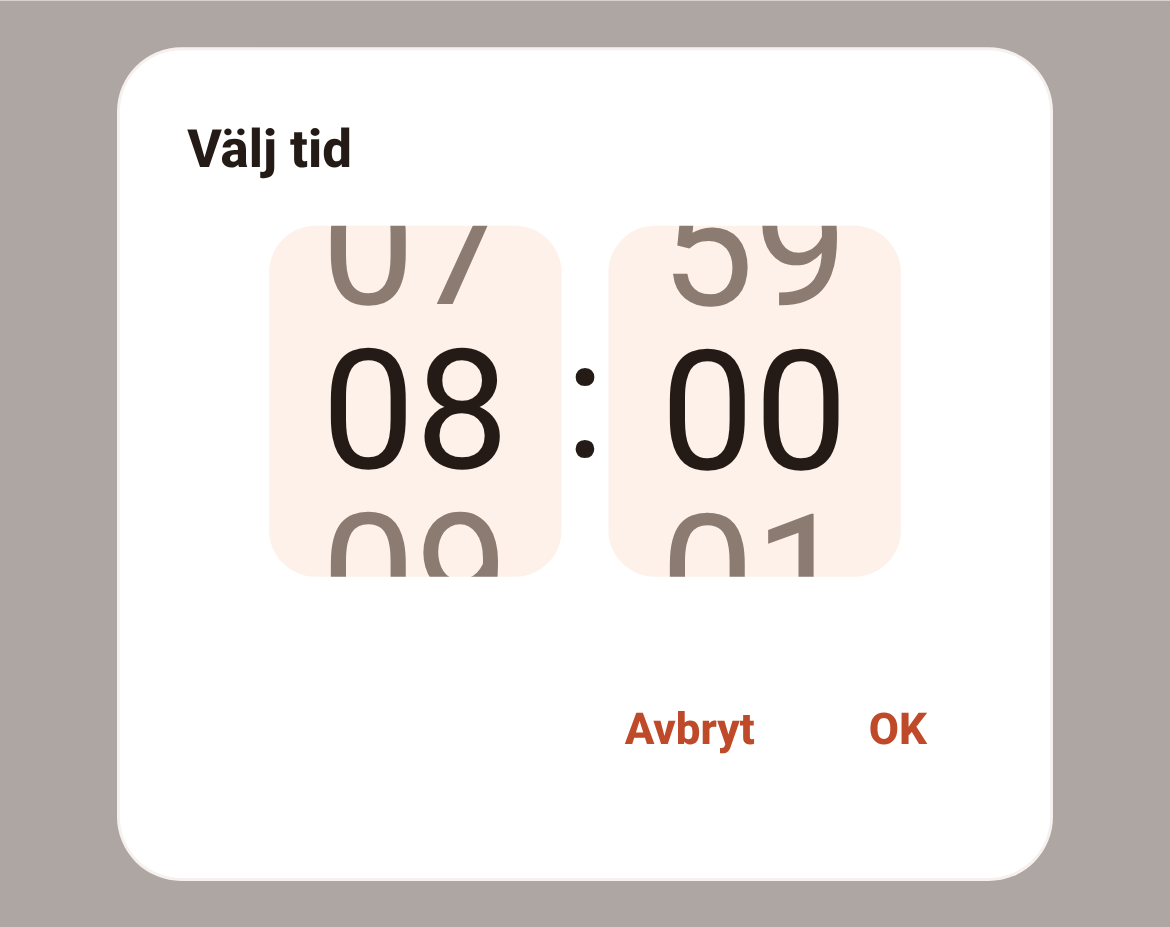
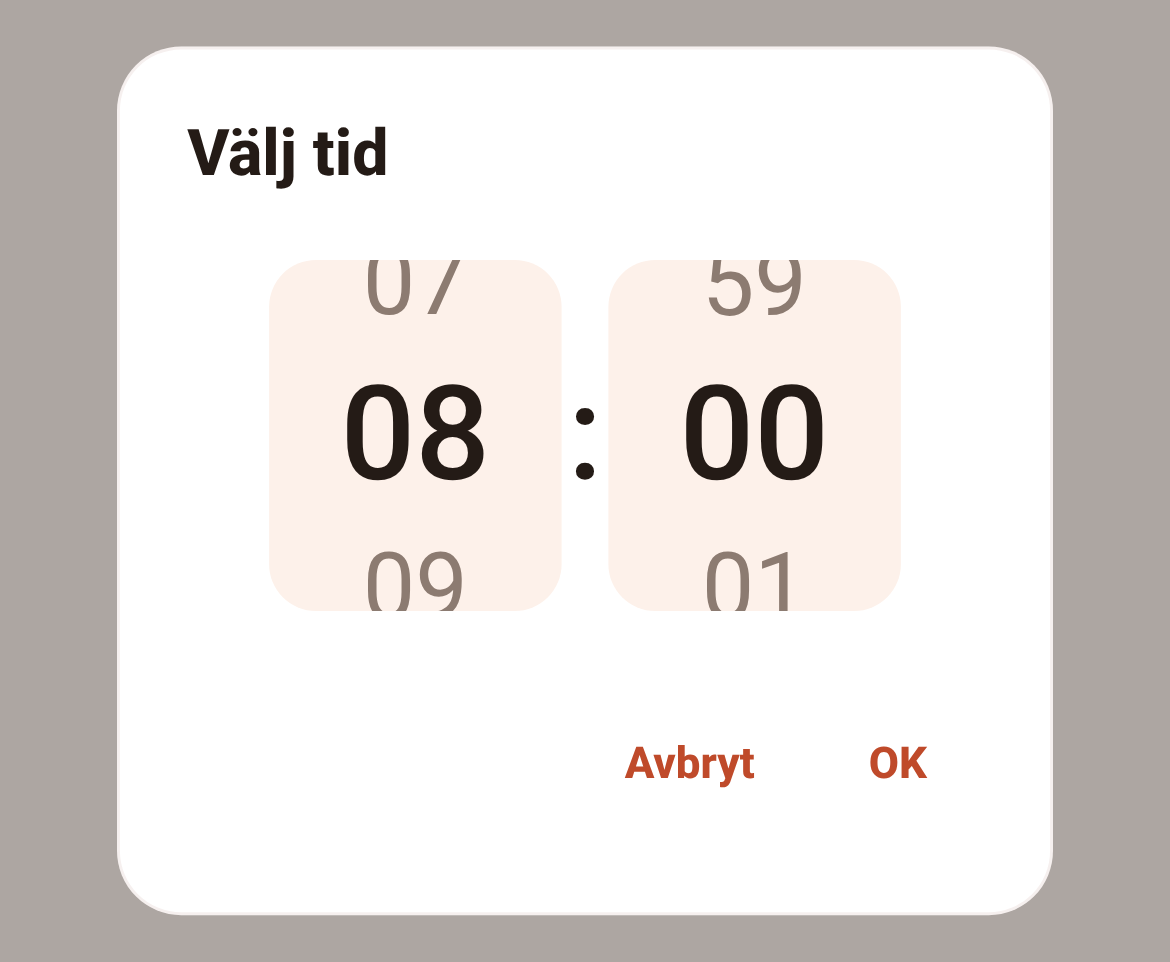
Tidsväljaren som android-ui 3.12.0: appens typsnitt i plats, rubriken som dialogerna (1.13.1)
Claude-Session: https://claude.ai/code/session_01KhEpwhrx6yxPvrpFXP2GCC

diff --git a/src/kh.css b/src/kh.css
@@ -26,7 +26,7 @@
   --kh-type-pill: 500 12px/16px var(--kh-font-body);
   --kh-type-caption: 500 11px/16px var(--kh-font-body);
   --kh-type-button: 500 14px/20px var(--kh-font-heading);
-  --kh-type-time-wheel: 400 57px/64px var(--kh-font-body); /* Material 3:s displayLarge: tidsväljarens tal */
+  --kh-type-time-wheel: 500 45px/52px var(--kh-font-body); /* AppTypography.timeWheelSelected: tidsväljarens tal i mitten och kolonet */
   --kh-tracking-screen-title: 0;
   --kh-tracking-caption: 0.045em;
 
@@ -837,8 +837,10 @@ textarea.kh-field__input { resize: none; min-block-size: 56px; field-sizing: con
 
 /*
  * <kh-time-picker> i en kh-dialog: två hjul (timme och minut, 24 timmar) i segmentvalets nedsänkta spår,
- * som Material 3:s TimeScroll. kh.js bygger hjulen; varje tal är 56 högt och hjulet visar 120, så att
- * grannarna syns avskurna. Talet i mitten står i on-surface, grannarna i outline (en rullningsdriven animering).
+ * som Material 3:s TimeScroll. kh.js bygger hjulen; varje tal är 52 högt och hjulet visar 120, så att
+ * grannarna syns avskurna. Talet i mitten står i on-surface, grannarna i outline och mindre (en rullningsdriven
+ * animering): 32/45 av talet och vikt 400 som AppTypography.timeWheel i android-ui 3.12.0. Skalan i stället för
+ * font-size, så att animeringen inte nollställer de tabulära siffrorna.
  */
 .kh-time-picker {
   display: grid;
@@ -853,7 +855,7 @@ textarea.kh-field__input { resize: none; min-block-size: 56px; field-sizing: con
 .kh-time-picker__wheel {
   box-sizing: border-box;
   block-size: 120px;
-  padding-block: 32px; /* (120 − 56) / 2: ett tal kan stå i mitten */
+  padding-block: 34px; /* (120 − 52) / 2: ett tal kan stå i mitten */
   overflow-y: auto;
   overscroll-behavior: contain;
   scroll-snap-type: y mandatory;
@@ -866,7 +868,7 @@ textarea.kh-field__input { resize: none; min-block-size: 56px; field-sizing: con
 .kh-time-picker__item {
   display: grid;
   place-items: center;
-  block-size: 56px;
+  block-size: 52px;
   scroll-snap-align: center;
   color: var(--kh-outline);
   cursor: pointer;
@@ -875,11 +877,11 @@ textarea.kh-field__input { resize: none; min-block-size: 56px; field-sizing: con
   animation-timeline: view();
 }
 @keyframes kh-time-wheel {
-  0%, 30%, 70%, 100% { color: var(--kh-outline); }
-  50% { color: var(--kh-on-surface); }
+  0%, 30%, 70%, 100% { color: var(--kh-outline); scale: calc(32 / 45); font-weight: 400; }
+  50% { color: var(--kh-on-surface); scale: 1; font-weight: 500; }
 }
-/* Dialogen med tidsväljaren har TimePickerPopups mindre rubrik. */
-.kh-dialog:has(> .kh-time-picker) .kh-dialog__title { font: var(--kh-type-section-title); }
+/* Rubriken som i övriga dialoger, med luft ner till hjulen (TimePickerPopup, android-ui 3.12.0). */
+.kh-dialog:has(> .kh-time-picker) .kh-dialog__title { margin-block-end: var(--kh-space-s); }
 
 /* ---------- Ark (AppBottomSheet) ---------- */
 

diff --git a/README.md b/README.md
@@ -61,7 +61,7 @@ standardvärden – en app som saknar en färg ser det direkt. Galleriets testte
 | `--kh-toolbar`, `--kh-on-toolbar` | `ExtendedColors.toolbar`, `.onToolbar` (flikraden) |
 | `--kh-surface-container-high` (valfri, standard `--kh-card`) | dra-ned-prickarnas behållare |
 | `--kh-font-body`, `--kh-font-heading` | appens typsnitt |
-| `--kh-type-screen-title`, `-big-number`, `-headline`, `-section-title`, `-quantity`, `-item-title`, `-item-subtitle`, `-body`, `-body-medium`, `-pill`, `-caption`, `-button`, `-time-wheel` | `AppTypography` (`-time-wheel`: tidsväljarens tal, Material 3:s displayLarge) (som `font`-förkortning; standard Material 3:s typskala) |
+| `--kh-type-screen-title`, `-big-number`, `-headline`, `-section-title`, `-quantity`, `-item-title`, `-item-subtitle`, `-body`, `-body-medium`, `-pill`, `-caption`, `-button`, `-time-wheel` | `AppTypography` (`-time-wheel`: tidsväljarens tal i mitten, `AppTypography.timeWheelSelected`; grannarna 32/45 av det) (som `font`-förkortning; standard Material 3:s typskala) |
 | `--kh-tracking-screen-title`, `--kh-tracking-caption` | stilarnas teckenavstånd |
 | `--kh-depth-highlight`, `-sheen`, `-shadow`, `-card-edge`, `-card-shadow`, `-card-sheen` (valfri), `-header-shadow` (valfri, standard `-card-shadow`) | `AppDepth` – gäller inom klassen `kh-depth` |
 | `--kh-card-padding`, `--kh-card-gap`, `--kh-card-border` | `AppCardStyle` (standard ReseApoteket och Dagboken) |
@@ -123,7 +123,7 @@ Med `kh.js` (egna element, inga shadow DOM):
 | `<kh-swipe label="Radera">` runt en rad (`tone="hide"` för dölj/arkivera) | `SwipeToDelete`, `SwipeToHide` | Svep åt vänster med finger eller penna (inte mus, inte från kantzonen 24 px): raden följer fingret med `label` på felfärgen (`tone="hide"`: primärtonen) bakom; efter en tredjedel av bredden eller ett snabbt drag meddelas `kh-swipe` och raden glider tillbaka. Svep åt höger går till sidan; elementet har `data-own-swipe="left"` för sidans eget sidledssvep. Raden ska också ha Radera synligt. |
 | `<kh-segmented>` | `AppSegmentedChoice` | Ett val i taget i barnens `aria-checked` (eller `aria-pressed`/`aria-selected`), med tryck och pilar; meddelar `kh-select` (`detail: { index, value }`). |
 | `<kh-stepper value="2" min="0" max="999" step="1" label="doser per dag">` | `QuantityStepper` | − och + i radtonens spår; knappen vid gränsen stängs av, `disabled` stänger båda. Knapparnas namn ur `label` ("Minska doser per dag"). Meddelar `change`; `value` läses och sätts som tal, egenskapen `format` (`(v) => text`) visar värdet med enhet (`valueText`). Knapparna 44, `--kh-stepper-button: 48px` för full tryckyta. Etiketten bredvid (`showLabel`): `<div class="kh-stepper-field">` med `<span class="kh-stepper-field__label" aria-hidden="true">`. |
-| `<kh-time-picker value="07:30" step="5">` i en `kh-dialog` | `TimePickerPopup` (rullhjul, android-ui #106) | Timme och minut som två hjul i segmentvalets spår (`--kh-row-tint`), 24 timmar, som går runt. Rullas med fingret, mushjulet, pilarna upp och ned eller ett tryck på talet ovanför eller under. `value` läses och sätts som `"HH:MM"` (också medan dialogen är stängd); `step` är minuthjulets steg (standard 1) och en tid mellan stegen avrundas till närmaste. `change` meddelas när hjulet stannat på en ny tid. Dialogens rubrik får `--kh-type-section-title` som i Android; Avbryt och OK är `kh-btn--text`. |
+| `<kh-time-picker value="07:30" step="5">` i en `kh-dialog` | `TimePickerPopup` (rullhjul, android-ui #106) | Timme och minut som två hjul i segmentvalets spår (`--kh-row-tint`), 24 timmar, som går runt. Rullas med fingret, mushjulet, pilarna upp och ned eller ett tryck på talet ovanför eller under. `value` läses och sätts som `"HH:MM"` (också medan dialogen är stängd); `step` är minuthjulets steg (standard 1) och en tid mellan stegen avrundas till närmaste. `change` meddelas när hjulet stannat på en ny tid. Dialogens rubrik är `--kh-type-headline` som i övriga dialoger, med luft ner till hjulen; Avbryt och OK är `kh-btn--text`. |
 
 Skillnader mot Android som är kända:
 
@@ -171,6 +171,7 @@ taggas `main` med `v<version>`: Actions → Tagga → Run workflow på `main` (`
 
 | Version | Ändring |
 |---|---|
+| 1.13.1 | Tidsväljaren som android-ui 3.12.0 (#123): talen 52 höga, `--kh-type-time-wheel` 500 45px/52px (var 400 57px/64px), grannarna 32/45 av talet och vikt 400, tabulära siffror; rubriken i `--kh-type-headline` som övriga dialoger med luft ner till hjulen. Omtagna: `TimePickerPopup_oppen`, `TimePickerPopup_djup` |
 | 1.13.0 | Kryss, växel och stegare som i android-ui: `kh-check` (`MorphingCheck`, ringen fjädrar till en kaka med bock) och `kh-check-row` (`CheckRow`, klar och tonad när ikryssad, `--plain`), `kh-switch` och `kh-switch-row` (`SwitchControl`, `SwitchRow`, `--inactive`), `<kh-stepper>` och `kh-stepper-field` (`QuantityStepper`, `format`, `--kh-stepper-button`); alla med djup i `kh-depth`. Nya skärmdumpar: `CheckRow_varianter`, `SwitchRow_varianter`, `QuantityStepper_varianter`, `QuantityStepper_etikett`, `Webb_kryssrad_djup`, `Webb_reglage_djup`, `Webb_stegare_djup` |
 | 1.12.0 | Progressiv oskärpa under sidhuvudet som i android-ui 3.11.1 (#105): innehållet som rullat in under `kh-header` och `kh-topbar` är suddigt vid kanten (radie 8) och skarpt 24 längre ned; tonar in med rullningen, `--kh-blur: 0` stänger av. `kh-header` klipper bara i sidled. Nya skärmdumpar: `EntityListScreen_rullad`, `Webb_topprad_rullad` |
 | 1.11.0 | Oskärpa bakom dialog och ark som i android-ui 3.8.0 (#104): `kh-dialog` och `kh-sheet` suddar innehållet bakom (`AppBlur.behindRadius` 12) och slöjan blir 20 %. `--kh-blur: 0` stänger av. Nya skärmdumpar: `AppBottomSheet_oskarpa`, `ConfirmDialog_oskarpa` (hela fönstret, `data-helskarm`) |
